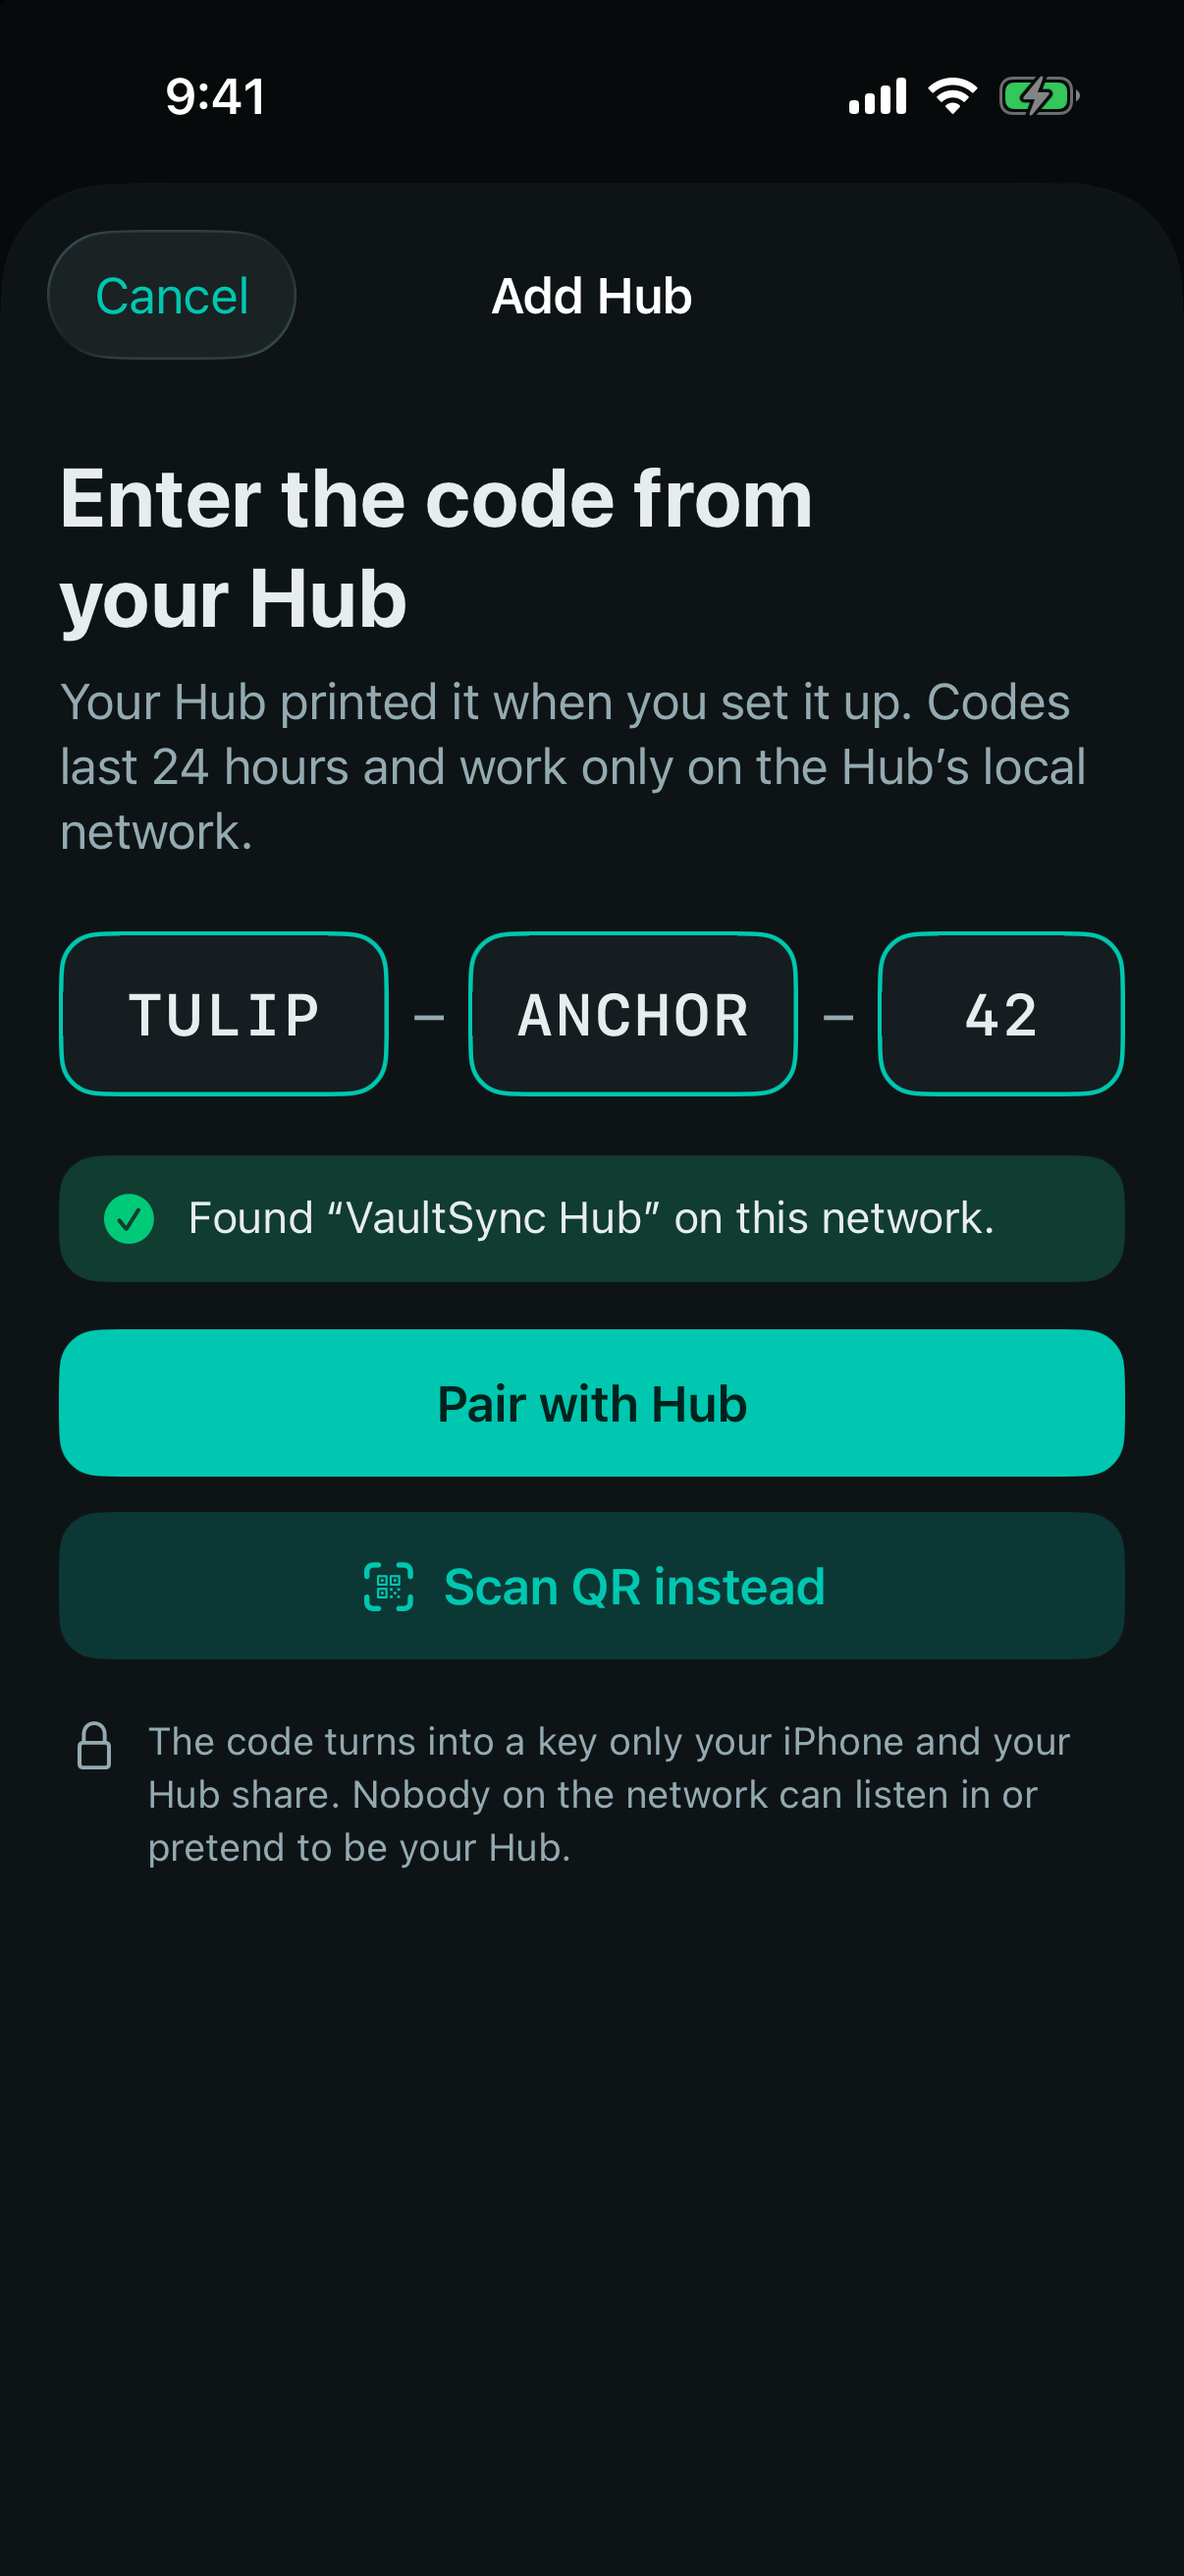
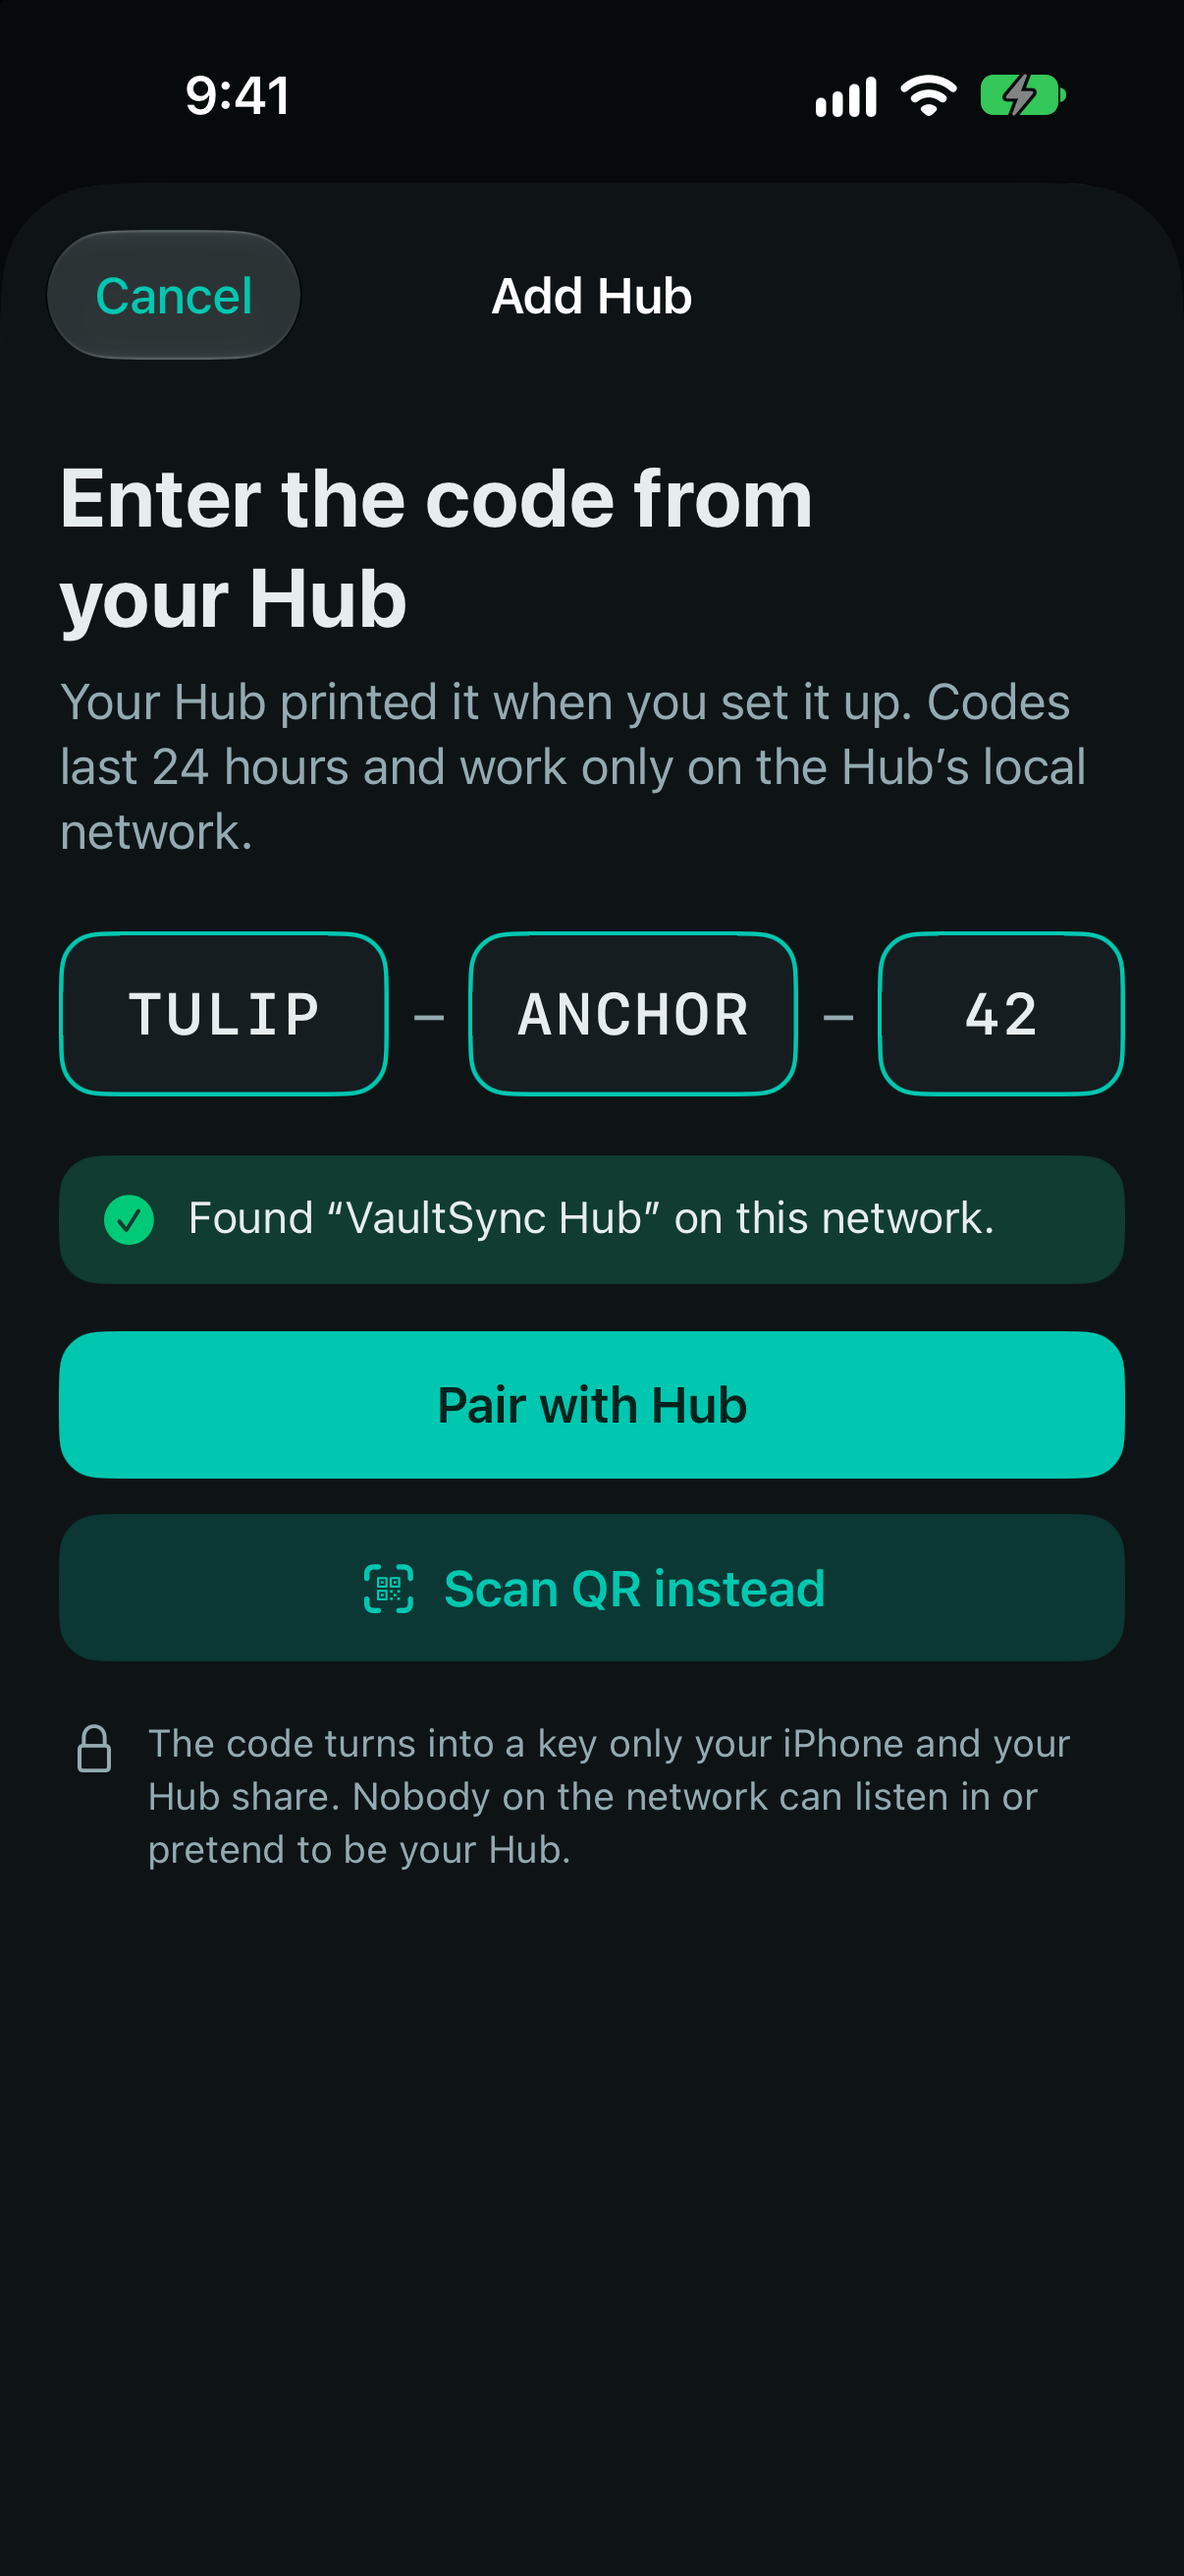
docs: name VaultSync Plus in the README and 3.0.1 as the version in production
VaultSync 3.0.1 is in the App Store, so the README names the plan and
its feature as the app does: the feature line, the quick start, the
optional section and the Requirements row say VaultSync Plus and
Background Sync. The relay keeps its name where the README describes
the mechanism (the architecture picture, the push row, the protocol
reference), as decision 070 does in the app.

The six screenshots, in light and dark, show the Plus tab. They were
taken again from the 3.0.1 tree on the iPhone 18 Pro simulator (iOS
27.2), in English, with the design-preview fixture: the same screens,
sizes and fictional data as before.

SECURITY.md and the Status line of docs/relay-spec.md name 3.0.1 as the
version in production.

What could go wrong: a link to the README's old "Cloud Relay (optional)"
heading would break, because the heading's anchor changes. Nothing in
the repository or on the landing page links to it. None of these lines
names a price.

diff --git a/README.md b/README.md
@@ -40,7 +40,7 @@ Your notes sync device to device — between your iPhone, your computer and your
 - **Peer-to-peer & private** — syncs directly between your own devices over [Syncthing](https://syncthing.net/). No note cloud, no account, no tracking.
 - **Lands in Obsidian** — files sync into Obsidian's iOS sandbox, where the app already looks for them.
 - **Pair with a code, resolve conflicts** — add your VaultSync Hub by the short code it prints or its QR code, or any Syncthing device by its Device ID; settle Markdown conflicts with side-by-side diffs.
-- **Server changes can wake your iPhone** — optional Cloud Relay asks iOS to wake the app after the helper observes a server change. The activity timeline shows local sync activity, while Diagnostics keeps Relay, delivery, and local-data evidence separate.
+- **Server changes can wake your iPhone** — Background Sync, with the optional VaultSync Plus subscription, asks iOS to wake the app after the helper observes a server change. The activity timeline shows local sync activity, while Diagnostics keeps Relay, delivery, and local-data evidence separate.
 
 *VoiceOver and Dynamic Type throughout. Localized in English, German, Spanish, and Simplified Chinese. Independent project — not affiliated with Obsidian or Syncthing.*
 
@@ -66,7 +66,7 @@ Syncthing runs on a machine you keep on; VaultSync joins as a peer and syncs int
 1. **Install** VaultSync from the [App Store](https://apps.apple.com/de/app/vaultsync-for-obsidian/id6761845197).
 2. **Pair your server** — with a [VaultSync Hub](#-vaultsync-hub-one-link-no-web-ui), tap **Add Hub** and type the code it printed or scan its QR code. With your own Syncthing, scan its Device ID by QR (or paste it), then accept the connection in that Syncthing instance.
 3. **Sync your vault** — VaultSync detects your Obsidian vaults, connects the share, and runs the first sync. Open Obsidian; your notes are there.
-4. **(Optional)** Enable **Cloud Relay** for faster server→iPhone updates — see below.
+4. **(Optional)** Get **VaultSync Plus** on the **Plus** tab and set up Background Sync for faster server→iPhone updates — see below.
 
 ---
 
@@ -128,9 +128,9 @@ device**: it installs VaultSync for Mac and Linux, pairs with your Hub by code
 and keeps your Obsidian vaults in sync in the background. On a Mac it needs
 macOS 12 or newer. Details: [docs/hub.md](docs/hub.md#desktop-agent-macos-and-linux).
 
-## ☁ Cloud Relay (optional)
+## ☁ VaultSync Plus (optional)
 
-Without it, VaultSync syncs server changes when you open the app. **With it, Cloud Relay can request a background wake-up after your server changes** — iOS still decides whether and when to run the app.
+Without it, VaultSync syncs server changes when you open the app. **With it, Background Sync can request a background wake-up after your server changes**, through our Cloud Relay — iOS still decides whether and when to run the app.
 
 ### ⚡ One-step setup
 
@@ -168,7 +168,7 @@ The installer finds your Syncthing config, sets the right permissions, and start
 | Obsidian | Installed on iOS / iPadOS |
 | Syncthing | Running on a Mac, Linux machine, NAS, or homeserver |
 | VaultSync for Mac and Linux | Optional preview — macOS 12 or newer, or Linux |
-| Cloud Relay | Optional — monthly or yearly in-app subscription |
+| VaultSync Plus | Optional — monthly or yearly in-app subscription for Background Sync |
 | vaultsync-notify | Optional Docker sidecar for server-side wake-ups |
 
 ---
@@ -213,7 +213,7 @@ Full build, signing, and test steps: [docs/setup.md](docs/setup.md).
 | [CONTRIBUTING.md](CONTRIBUTING.md) | How to contribute — setup, tests, and PR conventions |
 | [SECURITY.md](SECURITY.md) · [CODE_OF_CONDUCT.md](CODE_OF_CONDUCT.md) | Vulnerability reporting and community standards |
 
-Filing a bug? Include your iOS and VaultSync versions, your server's Syncthing version, whether Cloud Relay and `vaultsync-notify` are running, and relevant logs or screenshots.
+Filing a bug? Include your iOS and VaultSync versions, your server's Syncthing version, whether VaultSync Plus is active and `vaultsync-notify` is running, and relevant logs or screenshots.
 
 ---
 

diff --git a/docs/relay-spec.md b/docs/relay-spec.md
@@ -1,6 +1,6 @@
 # VaultSync Cloud Relay — Specification
 
-> **Status:** Cloud Relay 1.4.1 and VaultSync 3.0.0 are in production, and helper 2.0.2 is published. Since Relay 1.4 the App Store reports renewals, refunds, and revocations to the relay directly, so a renewed subscription keeps its wake-ups without the app having to be opened. Relay provisioning requires a verified StoreKit signed transaction; the compatibility window for exact pre-existing legacy registrations ended on October 31, 2026. Helper publication state is determined only by the newest public `notify-v*` release and its exact manifest; `notify-v1.8.0` remains the fixed rollback baseline for helper 2.0.2. A Relay-observed signal proves only accepted Relay processing: not helper identity, APNs delivery, background start, local data progress, upload, download, or a roundtrip. Existing Relay v1 provisioning, trigger, and push contracts remain unchanged. This document is the protocol and architecture reference for the relay, the `vaultsync-notify` sidecar, and the iOS client.
+> **Status:** Cloud Relay 1.4.1 and VaultSync 3.0.1 are in production, and helper 2.0.2 is published. Since Relay 1.4 the App Store reports renewals, refunds, and revocations to the relay directly, so a renewed subscription keeps its wake-ups without the app having to be opened. Relay provisioning requires a verified StoreKit signed transaction; the compatibility window for exact pre-existing legacy registrations ended on October 31, 2026. Helper publication state is determined only by the newest public `notify-v*` release and its exact manifest; `notify-v1.8.0` remains the fixed rollback baseline for helper 2.0.2. A Relay-observed signal proves only accepted Relay processing: not helper identity, APNs delivery, background start, local data progress, upload, download, or a roundtrip. Existing Relay v1 provisioning, trigger, and push contracts remain unchanged. This document is the protocol and architecture reference for the relay, the `vaultsync-notify` sidecar, and the iOS client.
 
 ## Overview
 

diff --git a/SECURITY.md b/SECURITY.md
@@ -26,7 +26,7 @@ Only the **latest release** of each component receives security fixes. If you ar
 
 | Component | Supported version |
 |---|---|
-| VaultSync iOS app | Latest App Store release (currently 3.0.0) |
+| VaultSync iOS app | Latest App Store release (currently 3.0.1) |
 | VaultSync Hub (`vaultsync-hub`) | Latest `hub-v*` release (currently 0.3.1) |
 | VaultSync for Mac and Linux (`vaultsync` desktop agent) | Latest `desktop-v*` release (currently 0.3.0) |
 | `vaultsync-notify` server helper | Latest `notify-v*` release (currently 2.0.2) |
